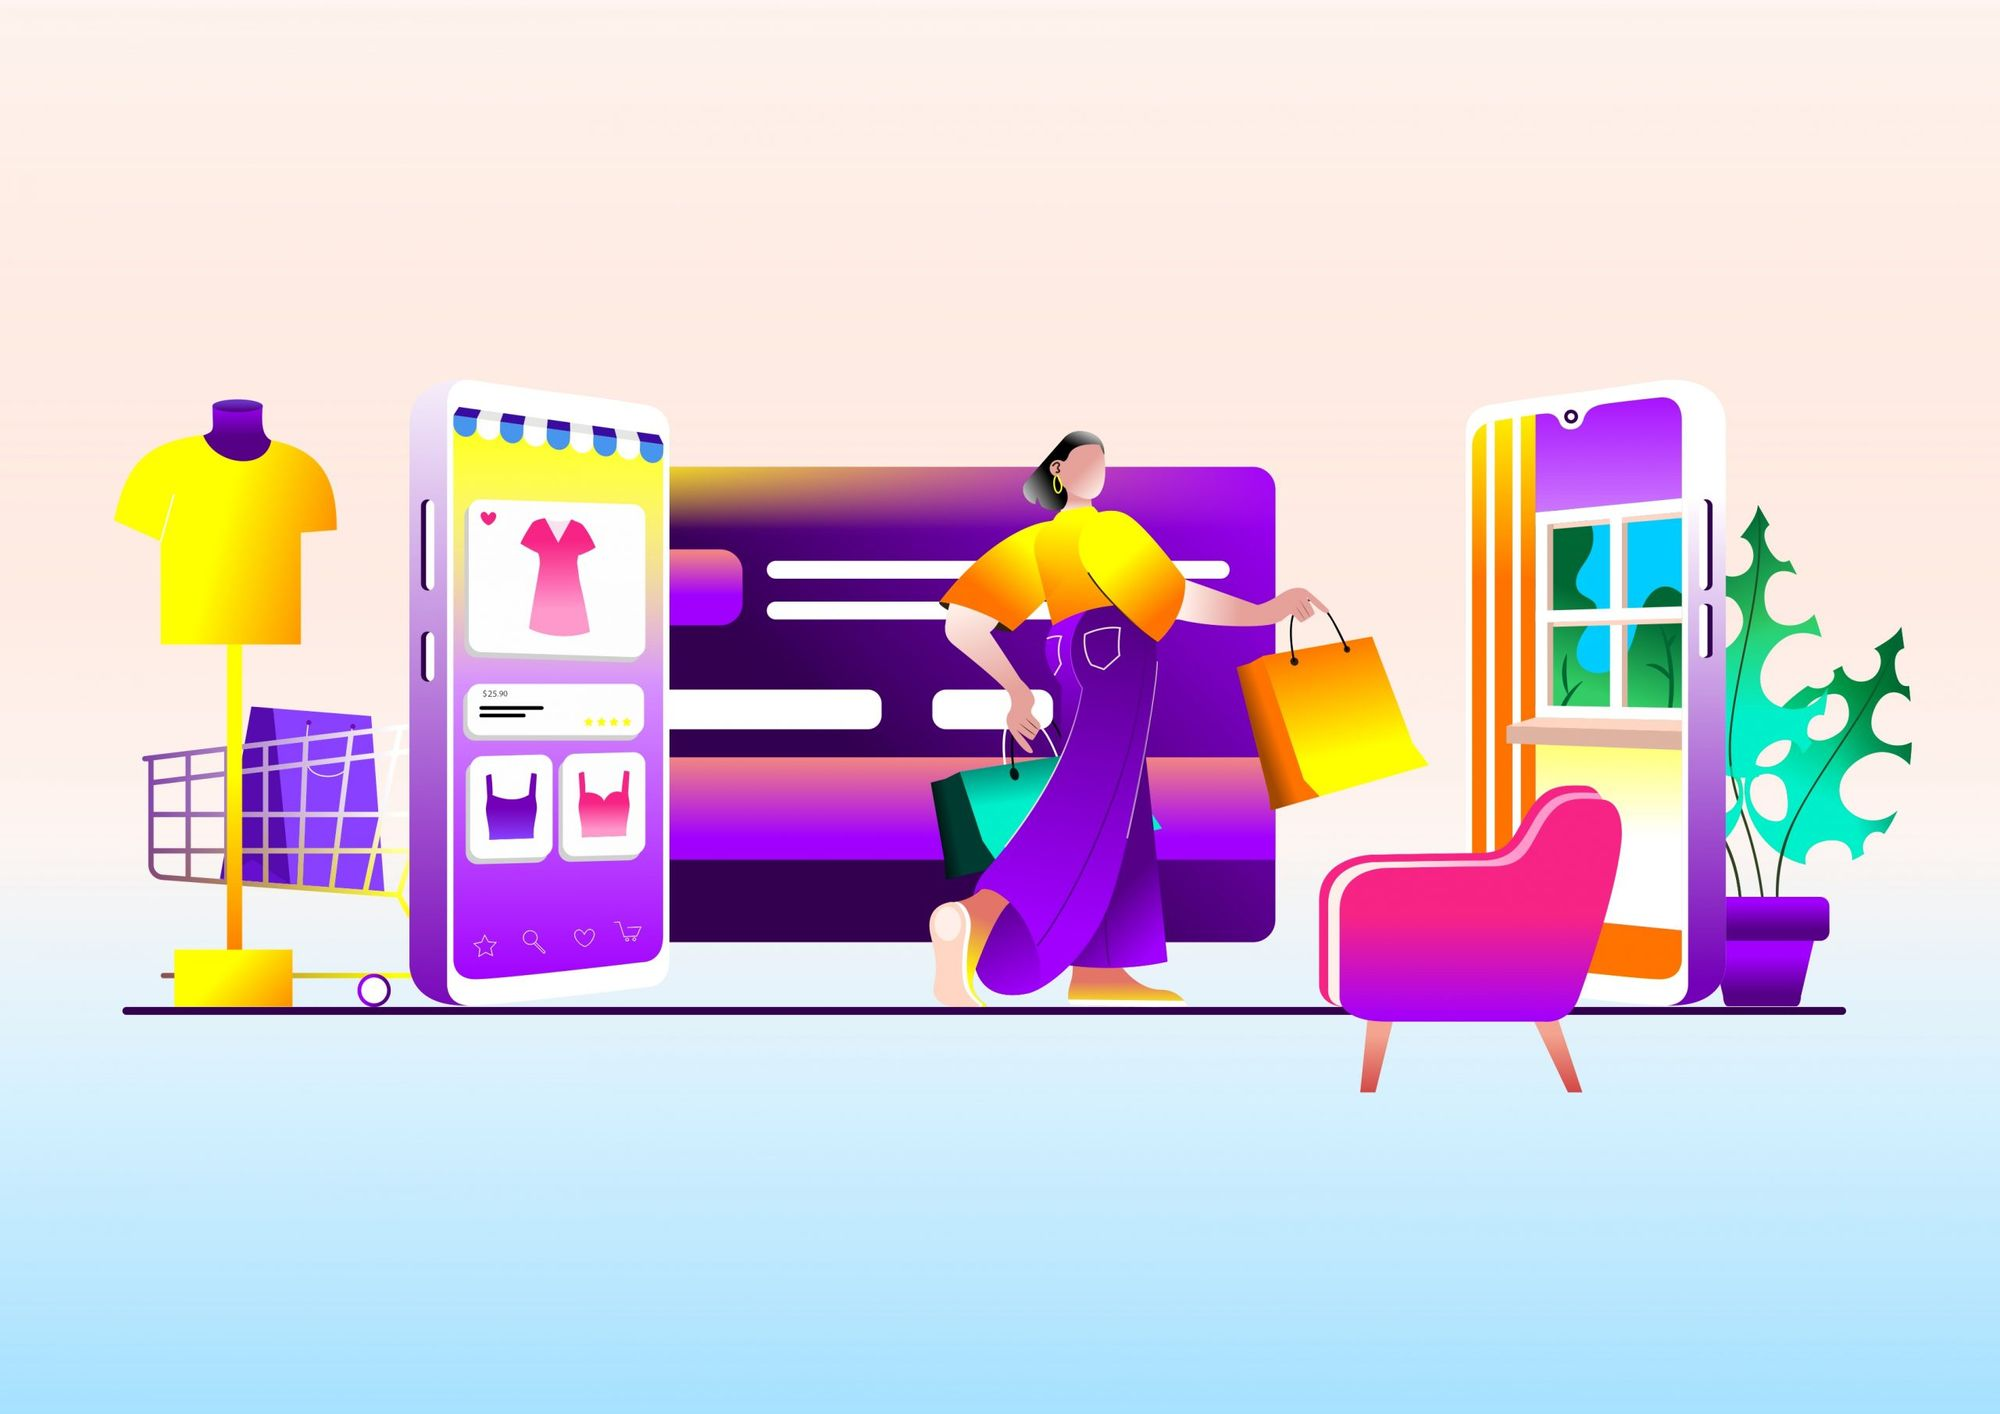
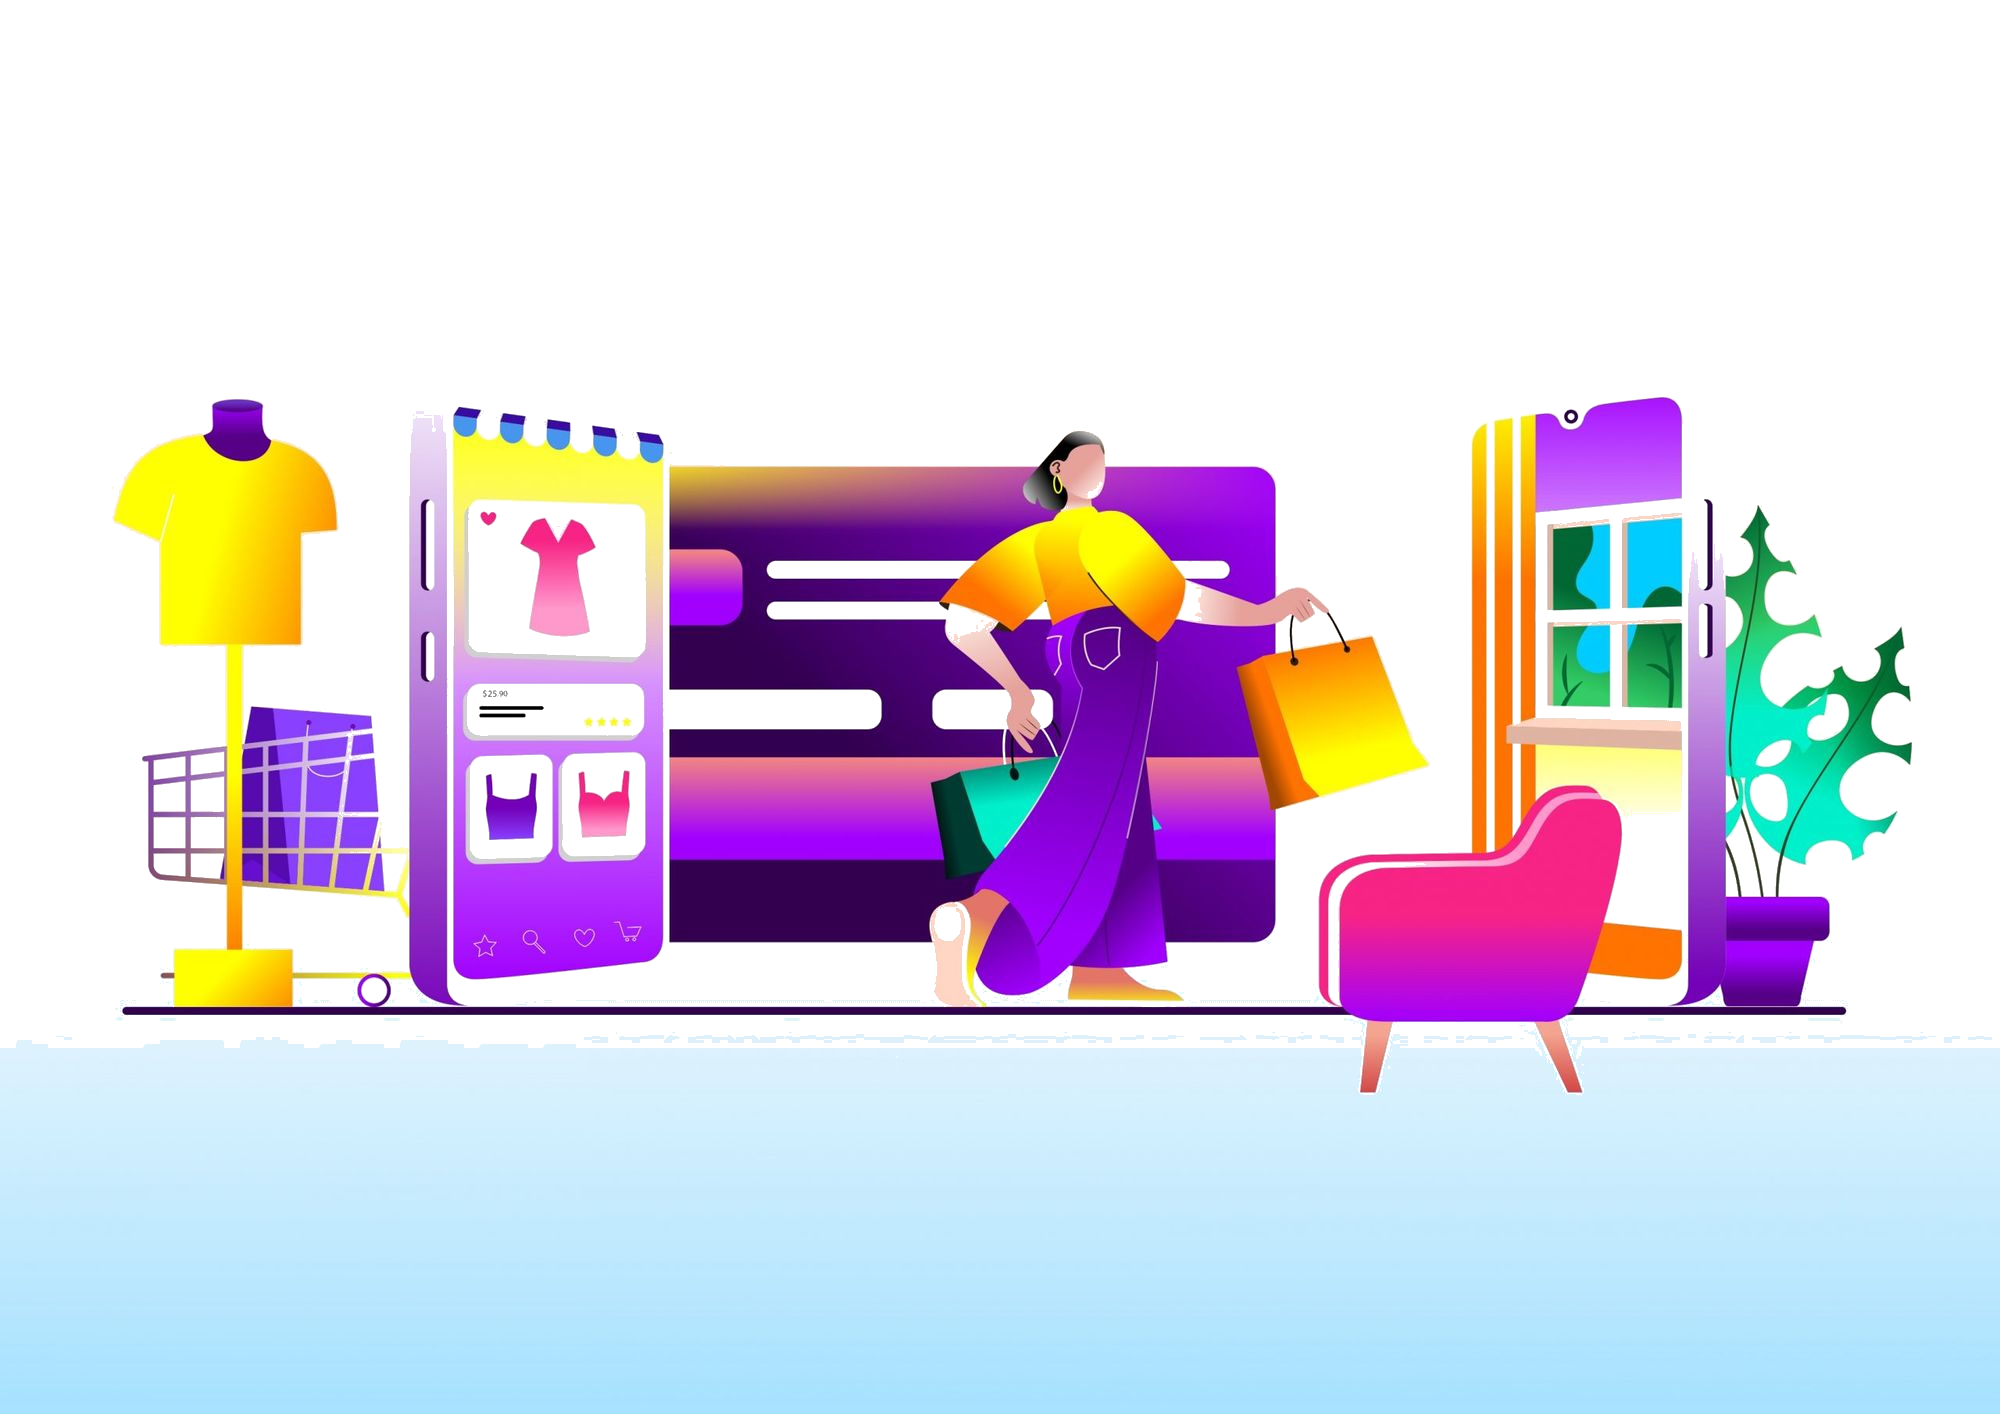
Update website with new imagery and visual enhancements
Incorporate new images and optimize existing ones across multiple pages, including the evade cancelations, store list, and mentorship sections. Fix multiline text editing bug and improve visibility of region cards.

Replit-Commit-Author: Agent
Replit-Commit-Session-Id: 1dfd5afb-8b43-4354-a298-5567b3188371
Replit-Commit-Checkpoint-Type: full_checkpoint
Replit-Commit-Event-Id: 924c7798-bab9-40de-83db-f07e91d51c6a
Replit-Helium-Checkpoint-Created: true

diff --git a/refgd/components/ServiceSection.tsx b/refgd/components/ServiceSection.tsx
@@ -12,6 +12,50 @@ import MoneyTimeScene from "./MoneyTimeScene";
 import ParallaxChapter from "./ParallaxChapter";
 
 /**
+ * "Stop wasting time and money" illustration: the leaping shopper
+ * artwork (transparent PNG) animated as if he's springing toward the
+ * phone. Uses framer-motion to:
+ *   • float gently up & down on a 3.6s loop (the "leap" pose),
+ *   • bob the credit-card horizontally on a slightly different cadence
+ *     so the figure feels alive rather than static,
+ *   • drift the whole composition in on first paint with a soft scale.
+ *
+ * `MoneyTimeScene` is left in the import list because other entry
+ * points elsewhere in the codebase still reference this module's
+ * exports — removing the import here is a no-op for that.
+ */
+function WastingTimeIllustration({ size }: { size: number }) {
+  return (
+    <motion.div
+      initial={{ opacity: 0, scale: 0.92, y: 18 }}
+      whileInView={{ opacity: 1, scale: 1, y: 0 }}
+      viewport={{ once: false, margin: "-10% 0px" }}
+      transition={{ duration: 0.85, ease: [0.16, 1, 0.3, 1] }}
+      style={{
+        width: size,
+        height: size,
+        position: "relative",
+        filter: "drop-shadow(0 30px 50px rgba(0,0,0,0.55))",
+      }}
+    >
+      <motion.img
+        src="/uploads/wasting-time-phone.png"
+        alt="Shopper leaping toward a phone with a credit card — saving time and money."
+        loading="lazy"
+        decoding="async"
+        animate={{ y: [0, -10, 0] }}
+        transition={{ duration: 3.6, repeat: Infinity, ease: "easeInOut" }}
+        style={{
+          width: "100%",
+          height: "100%",
+          objectFit: "contain",
+        }}
+      />
+    </motion.div>
+  );
+}
+
+/**
  * Multi-act intro section, embedded at the top of /store-list.
  *   Act 1: animated CASHBACK hero (replaces the central planet/orb with
  *          a 3D-feel cashback scene — coins, shopping bag, sparkling joy).
@@ -181,16 +225,18 @@ export default function ServiceSection() {
               </p>
             </Reveal>
 
-            {/* 3D vector below the text on mobile/tablet — corresponds to
-                the "stop wasting time and money" statement.            */}
+            {/* Animated illustration below the text on mobile/tablet —
+                the leaping shopper with credit card and phone fits the
+                "stop wasting time and money" beat better than the abstract
+                3D money-time render that previously lived here.        */}
             <div className="mt-10 grid place-items-center md:hidden">
-              <MoneyTimeScene size={280} />
+              <WastingTimeIllustration size={280} />
             </div>
           </div>
-          {/* Sticky-feeling 3D money-time scene on desktop */}
+          {/* Same illustration on desktop, larger. */}
           <div className="hidden sm:col-span-4 md:grid md:place-items-center">
             <Reveal delay={0.3}>
-              <MoneyTimeScene size={360} />
+              <WastingTimeIllustration size={360} />
             </Reveal>
           </div>
         </div>

diff --git a/refgd/app/evade-cancelations/page.tsx b/refgd/app/evade-cancelations/page.tsx
@@ -354,14 +354,39 @@ export default function EvadePage() {
       <ReorderableSection sectionId="deforming-mesh">
       {/* Deforming mesh dolly — a wireframe blob whose geometry warps
           as the user scrolls past, reading like a 3D camera fly-by
-          that rotates around the object. Pure SVG so it stays cheap. */}
+          that rotates around the object. Pure SVG so it stays cheap.
+
+          Pairs with a flat illustration on the right side (a team
+          collaborating around a shared idea) so the section reads as
+          "the algorithm is alive, and it's powered by people." The
+          illustration is the user-supplied "ideas / collaboration"
+          asset from the original brief — placed here because this
+          section had room to host it without crowding any other card. */}
       <section className="relative py-12">
         <div className="container-wide">
-          <div className="mx-auto max-w-5xl">
-            <DeformingMesh accent="#7c3aed" />
-            <p className="mt-4 text-center text-xs uppercase tracking-[0.5em] text-violet-200/70">
-              — algorithm, deformed in real time
-            </p>
+          <div className="mx-auto grid max-w-6xl items-center gap-8 lg:grid-cols-[1.3fr_1fr]">
+            <div>
+              <DeformingMesh accent="#7c3aed" />
+              <p className="mt-4 text-center text-xs uppercase tracking-[0.5em] text-violet-200/70">
+                — algorithm, deformed in real time
+              </p>
+            </div>
+            <Reveal delay={0.15}>
+              <div
+                className="relative mx-auto w-full max-w-md"
+                style={{
+                  filter: "drop-shadow(0 30px 60px rgba(0,0,0,0.6))",
+                }}
+              >
+                <img
+                  src="/uploads/evasion-ideas.png"
+                  alt="A team brainstorming evasion strategies around a shared clipboard."
+                  loading="lazy"
+                  decoding="async"
+                  className="h-auto w-full"
+                />
+              </div>
+            </Reveal>
           </div>
         </div>
       </section>
